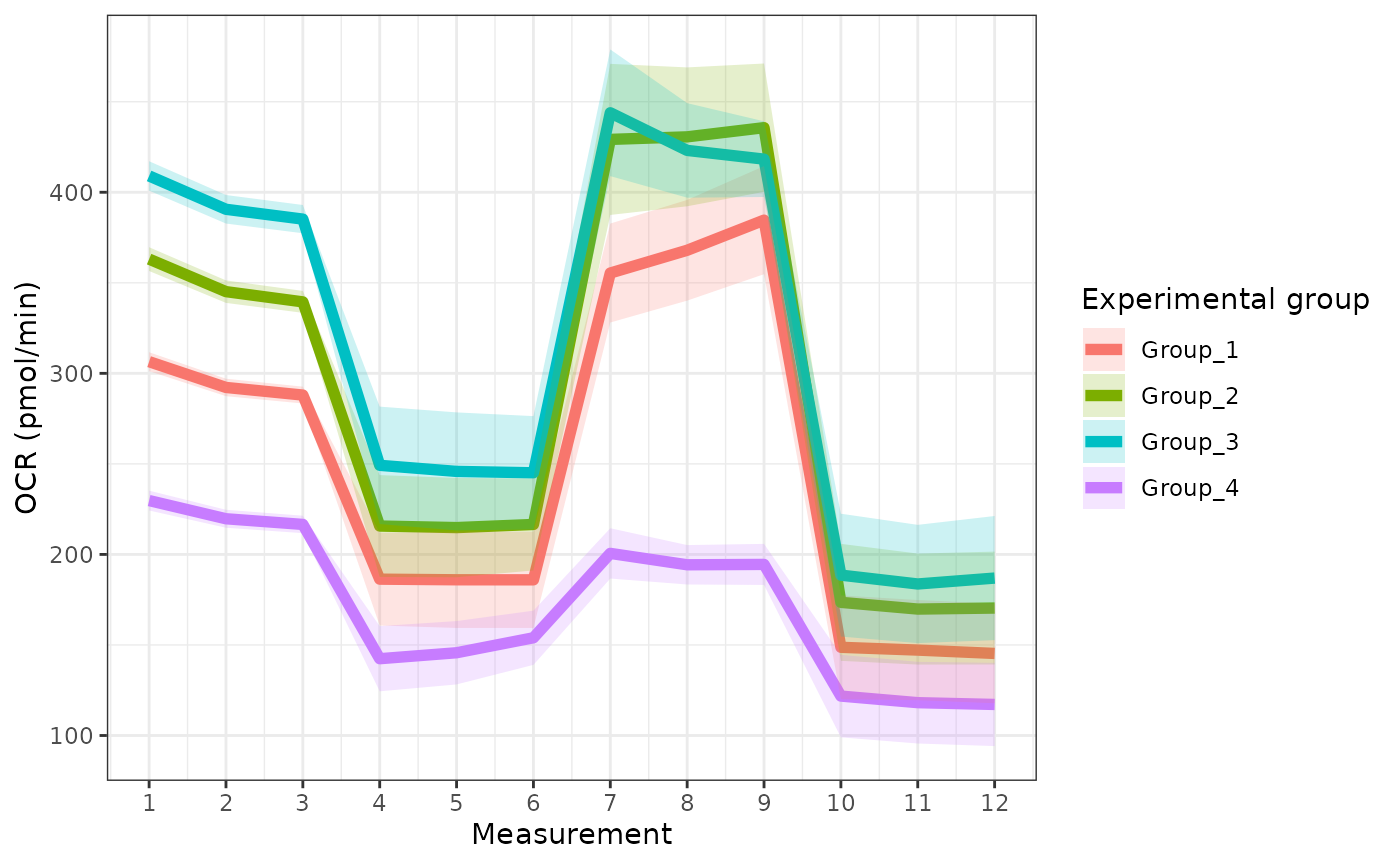
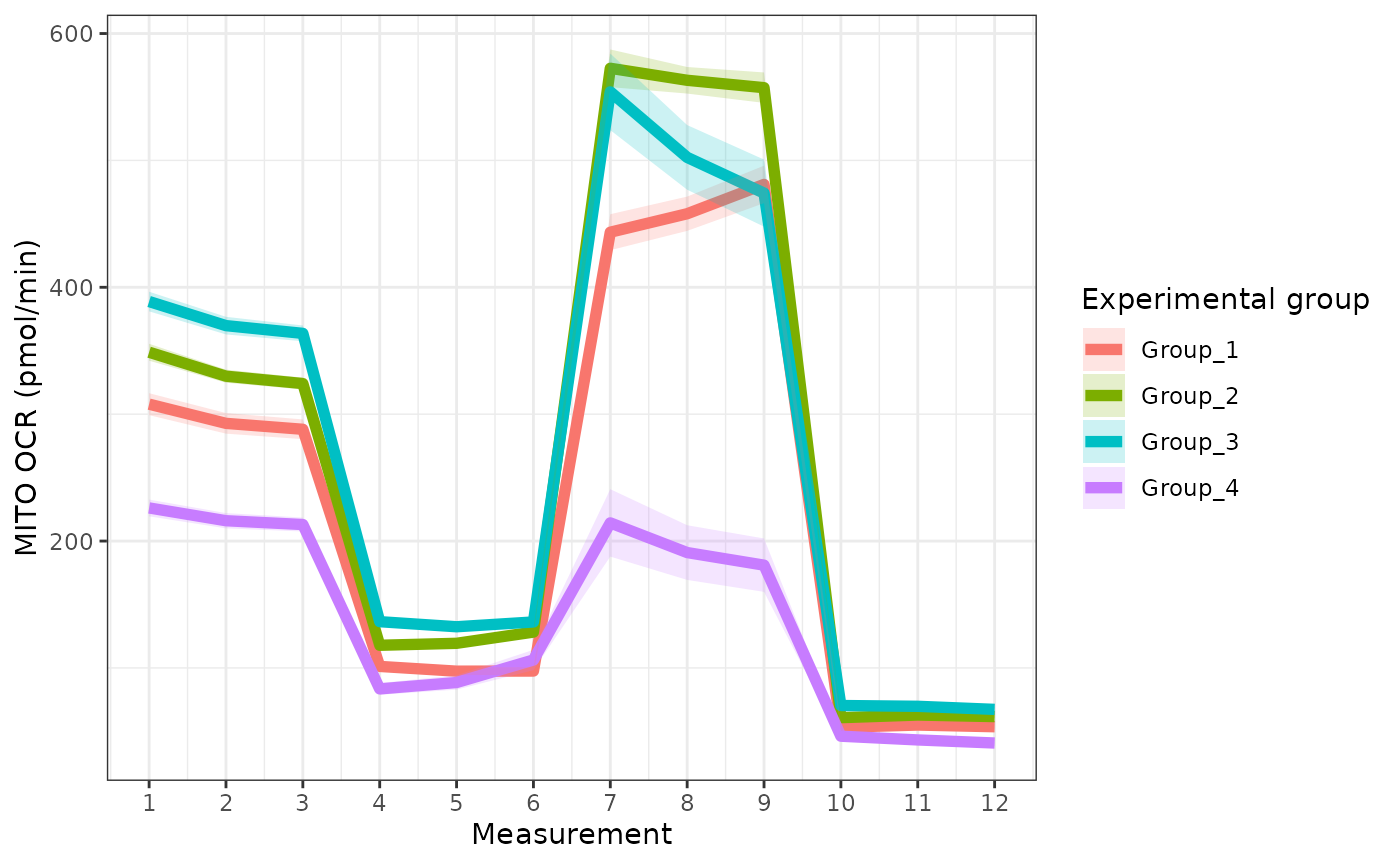
Deploying to gh-pages from @ jamespeapen/ceas@bffedb1c9b76316ab31076875fa677538ccf0490 🚀

diff --git a/dev/articles/ceas.html b/dev/articles/ceas.html
@@ -35,7 +35,7 @@
     
     <a class="navbar-brand me-2" href="../index.html">ceas</a>
 
-    <small class="nav-text text-danger me-auto" data-bs-toggle="tooltip" data-bs-placement="bottom" title="In-development version">0.3.0.9000</small>
+    <small class="nav-text text-danger me-auto" data-bs-toggle="tooltip" data-bs-placement="bottom" title="In-development version">0.3.2.9000</small>
 
     
     <button class="navbar-toggler" type="button" data-bs-toggle="collapse" data-bs-target="#navbar" aria-controls="navbar" aria-expanded="false" aria-label="Toggle navigation">
@@ -560,7 +560,7 @@ own custom plotting functions on those datasets.</p>
 <div class="sourceCode" id="cb21"><pre class="downlit sourceCode r">
 <code class="sourceCode R"><span><span class="va">rate_plot</span></span></code></pre></div>
 <div class="sourceCode" id="cb22"><pre class="downlit sourceCode r">
-<code class="sourceCode R"><span><span class="kw">function</span> <span class="op">(</span><span class="va">seahorse_rates</span>, <span class="va">measure</span> <span class="op">=</span> <span class="st">"OCR"</span>, <span class="va">error_bar</span> <span class="op">=</span> <span class="st">"ci"</span>, </span>
+<code class="sourceCode R"><span><span class="kw">function</span> <span class="op">(</span><span class="va">seahorse_rates</span>, <span class="va">measure</span> <span class="op">=</span> <span class="st">"OCR"</span>, <span class="va">assay</span> <span class="op">=</span> <span class="st">"MITO"</span>, <span class="va">error_bar</span> <span class="op">=</span> <span class="st">"ci"</span>, </span>
 <span>    <span class="va">conf_int</span> <span class="op">=</span> <span class="fl">0.95</span>, <span class="va">group_label</span> <span class="op">=</span> <span class="st">"Experimental group"</span><span class="op">)</span> </span>
 <span><span class="op">{</span></span>
 <span>    <span class="fu"><a href="https://rdrr.io/r/base/stopifnot.html" class="external-link">stopifnot</a></span><span class="op">(</span>`'measure' should be 'OCR' or 'ECAR'` <span class="op">=</span> <span class="va">measure</span> <span class="op"><a href="https://rdrr.io/r/base/match.html" class="external-link">%in%</a></span> </span>
@@ -579,9 +579,10 @@ own custom plotting functions on those datasets.</p>
 <span>    <span class="va">exp_group</span> <span class="op">&lt;-</span> <span class="cn">NULL</span></span>
 <span>    <span class="va">lower_bound</span> <span class="op">&lt;-</span> <span class="cn">NULL</span></span>
 <span>    <span class="va">upper_bound</span> <span class="op">&lt;-</span> <span class="cn">NULL</span></span>
-<span>    <span class="va">plot_data</span> <span class="op">&lt;-</span> <span class="fu"><a href="../reference/get_rate_summary.html">get_rate_summary</a></span><span class="op">(</span><span class="va">seahorse_rates</span>, <span class="va">measure</span>, <span class="va">error_bar</span>, </span>
-<span>        <span class="va">conf_int</span><span class="op">)</span></span>
-<span>    <span class="va">y_labels</span> <span class="op">&lt;-</span> <span class="fu"><a href="https://rdrr.io/r/base/list.html" class="external-link">list</a></span><span class="op">(</span>OCR <span class="op">=</span> <span class="st">"OCR (pmol/min)"</span>, ECAR <span class="op">=</span> <span class="st">"ECAR (mpH/min)"</span><span class="op">)</span></span>
+<span>    <span class="va">plot_data</span> <span class="op">&lt;-</span> <span class="fu"><a href="../reference/get_rate_summary.html">get_rate_summary</a></span><span class="op">(</span><span class="va">seahorse_rates</span>, <span class="va">measure</span>, <span class="va">assay</span>, </span>
+<span>        <span class="va">error_bar</span>, <span class="va">conf_int</span><span class="op">)</span></span>
+<span>    <span class="va">y_labels</span> <span class="op">&lt;-</span> <span class="fu"><a href="https://rdrr.io/r/base/list.html" class="external-link">list</a></span><span class="op">(</span>OCR <span class="op">=</span> <span class="fu"><a href="https://rdrr.io/r/base/paste.html" class="external-link">paste0</a></span><span class="op">(</span><span class="va">assay</span>, <span class="st">" OCR (pmol/min)"</span><span class="op">)</span>, </span>
+<span>        ECAR <span class="op">=</span> <span class="fu"><a href="https://rdrr.io/r/base/paste.html" class="external-link">paste0</a></span><span class="op">(</span><span class="va">assay</span>, <span class="st">" ECAR (mpH/min)"</span><span class="op">)</span><span class="op">)</span></span>
 <span>    <span class="fu">ggplot</span><span class="op">(</span><span class="va">plot_data</span>, <span class="fu">aes</span><span class="op">(</span>x <span class="op">=</span> <span class="va">Measurement</span>, y <span class="op">=</span> <span class="va">mean</span>, color <span class="op">=</span> <span class="va">exp_group</span>, </span>
 <span>        group <span class="op">=</span> <span class="va">exp_group</span>, fill <span class="op">=</span> <span class="va">exp_group</span><span class="op">)</span><span class="op">)</span> <span class="op">+</span> <span class="fu">geom_line</span><span class="op">(</span>size <span class="op">=</span> <span class="fl">2</span><span class="op">)</span> <span class="op">+</span> </span>
 <span>        <span class="fu">geom_ribbon</span><span class="op">(</span><span class="fu">aes</span><span class="op">(</span>ymin <span class="op">=</span> <span class="va">lower_bound</span>, ymax <span class="op">=</span> <span class="va">upper_bound</span><span class="op">)</span>, </span>

diff --git a/dev/reference/read_data.html b/dev/reference/read_data.html
@@ -12,7 +12,7 @@ data is background normalized."><meta property="og:image" content="https://james
     
     <a class="navbar-brand me-2" href="../index.html">ceas</a>
 
-    <small class="nav-text text-danger me-auto" data-bs-toggle="tooltip" data-bs-placement="bottom" title="In-development version">0.3.0.9000</small>
+    <small class="nav-text text-danger me-auto" data-bs-toggle="tooltip" data-bs-placement="bottom" title="In-development version">0.3.2.9000</small>
 
     
     <button class="navbar-toggler" type="button" data-bs-toggle="collapse" data-bs-target="#navbar" aria-controls="navbar" aria-expanded="false" aria-label="Toggle navigation">
@@ -134,31 +134,9 @@ character as delimiter.</p></dd>
 <span class="r-in"><span><span class="va">norm_csv</span> <span class="op">&lt;-</span> <span class="fu"><a href="https://rdrr.io/r/base/system.file.html" class="external-link">system.file</a></span><span class="op">(</span><span class="st">"extdata"</span>, package <span class="op">=</span> <span class="st">"ceas"</span><span class="op">)</span> <span class="op">|&gt;</span></span></span>
 <span class="r-in"><span>  <span class="fu"><a href="https://rdrr.io/r/base/list.files.html" class="external-link">list.files</a></span><span class="op">(</span>pattern <span class="op">=</span> <span class="st">"norm.csv"</span>, full.names <span class="op">=</span> <span class="cn">TRUE</span><span class="op">)</span></span></span>
 <span class="r-in"><span><span class="va">seahorse_rates.norm</span> <span class="op">&lt;-</span> <span class="fu">read_data</span><span class="op">(</span><span class="va">rep_list</span>, norm <span class="op">=</span> <span class="va">norm_csv</span>, sheet <span class="op">=</span> <span class="fl">2</span><span class="op">)</span></span></span>
+<span class="r-err co"><span class="r-pr">#&gt;</span> <span class="error">Error in if (!all(background_dt[, .(OCR, ECAR, PER)] == 0)) {    print(rates_dt[exp_group == "Background"][OCR != 0 | ECAR !=         0 | PER != 0])    stop("Background is not 0 in the rows shown above - check that normalization was performed")}:</span> missing value where TRUE/FALSE needed</span>
 <span class="r-in"><span><span class="fu"><a href="https://rdrr.io/r/utils/head.html" class="external-link">head</a></span><span class="op">(</span><span class="va">seahorse_rates.norm</span>, n <span class="op">=</span> <span class="fl">10</span><span class="op">)</span></span></span>
-<span class="r-out co"><span class="r-pr">#&gt;</span>     Measurement   Well     Time       OCR      ECAR      PER  exp_group</span>
-<span class="r-out co"><span class="r-pr">#&gt;</span>           &lt;num&gt; &lt;char&gt;    &lt;num&gt;     &lt;num&gt;     &lt;num&gt;    &lt;num&gt;     &lt;char&gt;</span>
-<span class="r-out co"><span class="r-pr">#&gt;</span>  1:           1    A01 1.304765        NA        NA   0.0000 Background</span>
-<span class="r-out co"><span class="r-pr">#&gt;</span>  2:           1    A02 1.304765  50.87376  5.107549 334.4771    Group_1</span>
-<span class="r-out co"><span class="r-pr">#&gt;</span>  3:           1    A03 1.304765  51.33103  5.546114 358.4754    Group_1</span>
-<span class="r-out co"><span class="r-pr">#&gt;</span>  4:           1    A04 1.304765  56.55665  8.196252 503.4910    Group_2</span>
-<span class="r-out co"><span class="r-pr">#&gt;</span>  5:           1    A05 1.304765  53.65663  7.991003 492.2597    Group_2</span>
-<span class="r-out co"><span class="r-pr">#&gt;</span>  6:           1    A06 1.304765  53.96603  7.807053 482.1940    Group_2</span>
-<span class="r-out co"><span class="r-pr">#&gt;</span>  7:           1    A07 1.304765 379.14553 46.817412 481.9668    Group_3</span>
-<span class="r-out co"><span class="r-pr">#&gt;</span>  8:           1    A08 1.304765 391.14776 50.146484 512.3280    Group_3</span>
-<span class="r-out co"><span class="r-pr">#&gt;</span>  9:           1    A09 1.304765 393.45230 52.546486 534.2160    Group_3</span>
-<span class="r-out co"><span class="r-pr">#&gt;</span> 10:           1    A10 1.304765 217.05432 29.117934 320.5476    Group_4</span>
-<span class="r-out co"><span class="r-pr">#&gt;</span>     assay_type replicate</span>
-<span class="r-out co"><span class="r-pr">#&gt;</span>         &lt;char&gt;     &lt;int&gt;</span>
-<span class="r-out co"><span class="r-pr">#&gt;</span>  1:       &lt;NA&gt;         1</span>
-<span class="r-out co"><span class="r-pr">#&gt;</span>  2:       MITO         1</span>
-<span class="r-out co"><span class="r-pr">#&gt;</span>  3:       MITO         1</span>
-<span class="r-out co"><span class="r-pr">#&gt;</span>  4:       MITO         1</span>
-<span class="r-out co"><span class="r-pr">#&gt;</span>  5:       MITO         1</span>
-<span class="r-out co"><span class="r-pr">#&gt;</span>  6:       MITO         1</span>
-<span class="r-out co"><span class="r-pr">#&gt;</span>  7:       MITO         1</span>
-<span class="r-out co"><span class="r-pr">#&gt;</span>  8:       MITO         1</span>
-<span class="r-out co"><span class="r-pr">#&gt;</span>  9:       MITO         1</span>
-<span class="r-out co"><span class="r-pr">#&gt;</span> 10:       MITO         1</span>
+<span class="r-err co"><span class="r-pr">#&gt;</span> <span class="error">Error in eval(expr, envir, enclos):</span> object 'seahorse_rates.norm' not found</span>
 </code></pre></div>
     </div>
   </main><aside class="col-md-3"><nav id="toc"><h2>On this page</h2>

diff --git a/dev/reference/get_rate_summary.html b/dev/reference/get_rate_summary.html
@@ -10,7 +10,7 @@
     
     <a class="navbar-brand me-2" href="../index.html">ceas</a>
 
-    <small class="nav-text text-danger me-auto" data-bs-toggle="tooltip" data-bs-placement="bottom" title="In-development version">0.3.0.9000</small>
+    <small class="nav-text text-danger me-auto" data-bs-toggle="tooltip" data-bs-placement="bottom" title="In-development version">0.3.2.9000</small>
 
     
     <button class="navbar-toggler" type="button" data-bs-toggle="collapse" data-bs-target="#navbar" aria-controls="navbar" aria-expanded="false" aria-label="Toggle navigation">
@@ -63,6 +63,7 @@
     <div class="sourceCode"><pre class="sourceCode r"><code><span><span class="fu">get_rate_summary</span><span class="op">(</span></span>
 <span>  <span class="va">seahorse_rates</span>,</span>
 <span>  measure <span class="op">=</span> <span class="st">"OCR"</span>,</span>
+<span>  <span class="va">assay</span>,</span>
 <span>  error_metric <span class="op">=</span> <span class="st">"ci"</span>,</span>
 <span>  conf_int <span class="op">=</span> <span class="fl">0.95</span></span>
 <span><span class="op">)</span></span></code></pre></div>
@@ -75,7 +76,11 @@
 
 
 <dt>measure</dt>
-<dd><p>Whether to plot <code>"OCR"</code> or <code>"ECAR"</code></p></dd>
+<dd><p>Whether to calculate summary for <code>"OCR"</code> or <code>"ECAR"</code></p></dd>
+
+
+<dt>assay</dt>
+<dd><p>What assay to calculate summary for (e.g. "MITO" or "GLYCO")</p></dd>
 
 
 <dt>error_metric</dt>
@@ -104,19 +109,9 @@
 <span class="r-in"><span>  error_metric <span class="op">=</span> <span class="st">"ci"</span>,</span></span>
 <span class="r-in"><span>  conf_int <span class="op">=</span> <span class="fl">0.95</span></span></span>
 <span class="r-in"><span><span class="op">)</span></span></span>
+<span class="r-err co"><span class="r-pr">#&gt;</span> <span class="error">Error in eval(stub[[3L]], x, enclos):</span> argument "assay" is missing, with no default</span>
 <span class="r-in"><span><span class="fu"><a href="https://rdrr.io/r/utils/head.html" class="external-link">head</a></span><span class="op">(</span><span class="va">rates</span>, n <span class="op">=</span> <span class="fl">10</span><span class="op">)</span></span></span>
-<span class="r-out co"><span class="r-pr">#&gt;</span>     exp_group Measurement     mean       sd       se lower_bound upper_bound</span>
-<span class="r-out co"><span class="r-pr">#&gt;</span>        &lt;char&gt;       &lt;num&gt;    &lt;num&gt;    &lt;num&gt;    &lt;num&gt;       &lt;num&gt;       &lt;num&gt;</span>
-<span class="r-out co"><span class="r-pr">#&gt;</span>  1:   Group_1           1 306.4486 17.65435 2.661494    301.2322    311.6650</span>
-<span class="r-out co"><span class="r-pr">#&gt;</span>  2:   Group_2           1 363.0852 23.20204 3.348926    356.5215    369.6490</span>
-<span class="r-out co"><span class="r-pr">#&gt;</span>  3:   Group_3           1 409.0223 28.67433 4.138782    400.9104    417.1342</span>
-<span class="r-out co"><span class="r-pr">#&gt;</span>  4:   Group_4           1 229.7457 18.53215 2.793827    224.2699    235.2215</span>
-<span class="r-out co"><span class="r-pr">#&gt;</span>  5:   Group_1           2 292.2111 16.33149 2.462065    287.3855    297.0366</span>
-<span class="r-out co"><span class="r-pr">#&gt;</span>  6:   Group_2           2 345.1178 21.95538 3.168987    338.9067    351.3289</span>
-<span class="r-out co"><span class="r-pr">#&gt;</span>  7:   Group_3           2 390.6030 27.84976 4.019766    382.7244    398.4816</span>
-<span class="r-out co"><span class="r-pr">#&gt;</span>  8:   Group_4           2 219.6930 16.79214 2.531511    214.7313    224.6547</span>
-<span class="r-out co"><span class="r-pr">#&gt;</span>  9:   Group_1           3 288.0009 15.74350 2.373422    283.3491    292.6527</span>
-<span class="r-out co"><span class="r-pr">#&gt;</span> 10:   Group_2           3 339.4649 21.40811 3.089995    333.4086    345.5212</span>
+<span class="r-err co"><span class="r-pr">#&gt;</span> <span class="error">Error in eval(expr, envir, enclos):</span> object 'rates' not found</span>
 </code></pre></div>
     </div>
   </main><aside class="col-md-3"><nav id="toc"><h2>On this page</h2>

diff --git a/dev/news/index.html b/dev/news/index.html
@@ -10,7 +10,7 @@
     
     <a class="navbar-brand me-2" href="../index.html">ceas</a>
 
-    <small class="nav-text text-danger me-auto" data-bs-toggle="tooltip" data-bs-placement="bottom" title="In-development version">0.3.0.9000</small>
+    <small class="nav-text text-danger me-auto" data-bs-toggle="tooltip" data-bs-placement="bottom" title="In-development version">0.3.2.9000</small>
 
     
     <button class="navbar-toggler" type="button" data-bs-toggle="collapse" data-bs-target="#navbar" aria-controls="navbar" aria-expanded="false" aria-label="Toggle navigation">
@@ -57,7 +57,15 @@
 <h2 class="pkg-version" data-toc-text="development version" id="ceas-development-version">ceas (development version)<a class="anchor" aria-label="anchor" href="#ceas-development-version"></a></h2>
 </div>
     <div class="section level2">
+<h2 class="pkg-version" data-toc-text="0.3.2" id="ceas-032">ceas 0.3.2<a class="anchor" aria-label="anchor" href="#ceas-032"></a></h2>
+<ul><li>Stop if data are not normalized by checking that the “Background” group’s OCR, ECAR, and PER values are 0.</li>
+</ul></div>
+    <div class="section level2">
 <h2 class="pkg-version" data-toc-text="0.3.1" id="ceas-031">ceas 0.3.1<a class="anchor" aria-label="anchor" href="#ceas-031"></a></h2>
+<ul><li>Add assay type as argument to plot ECAR/OCR meaningfully as all assay types were previously being summarized instead of just one.</li>
+</ul></div>
+    <div class="section level2">
+<h2 class="pkg-version" data-toc-text="0.3.0" id="ceas-030">ceas 0.3.0<a class="anchor" aria-label="anchor" href="#ceas-030"></a></h2>
 <ul><li>
 <p>Add <code><a href="../reference/normalize.html">normalize()</a></code>, a cell count/protein mass normalization function. <code>read_data</code> now can take a csv file with cell counts or protein mass (<span class="math inline"><em>μ</em></span>g) for each of the experimental groups to normalize the data. An example csv is provided below for a dataset with 4 experimental groups:</p>
 <table class="table"><thead><tr class="header"><th align="left">exp_group</th>
@@ -73,7 +81,7 @@
 </tr></tbody></table></li>
 </ul></div>
     <div class="section level2">
-<h2 class="pkg-version" data-toc-text="0.2.1" id="ceas-021">ceas 0.2.1<a class="anchor" aria-label="anchor" href="#ceas-021"></a></h2>
+<h2 class="pkg-version" data-toc-text="0.2.0" id="ceas-020">ceas 0.2.0<a class="anchor" aria-label="anchor" href="#ceas-020"></a></h2>
 <ul><li>Add delimiter between group and assay labels as argument in <code><a href="../reference/read_data.html">read_data()</a></code> to support delimiters other than <space>.</space></li>
 </ul></div>
     <div class="section level2">

diff --git a/dev/reference/rate_plot.html b/dev/reference/rate_plot.html
@@ -10,7 +10,7 @@
     
     <a class="navbar-brand me-2" href="../index.html">ceas</a>
 
-    <small class="nav-text text-danger me-auto" data-bs-toggle="tooltip" data-bs-placement="bottom" title="In-development version">0.3.0.9000</small>
+    <small class="nav-text text-danger me-auto" data-bs-toggle="tooltip" data-bs-placement="bottom" title="In-development version">0.3.2.9000</small>
 
     
     <button class="navbar-toggler" type="button" data-bs-toggle="collapse" data-bs-target="#navbar" aria-controls="navbar" aria-expanded="false" aria-label="Toggle navigation">
@@ -63,6 +63,7 @@
     <div class="sourceCode"><pre class="sourceCode r"><code><span><span class="fu">rate_plot</span><span class="op">(</span></span>
 <span>  <span class="va">seahorse_rates</span>,</span>
 <span>  measure <span class="op">=</span> <span class="st">"OCR"</span>,</span>
+<span>  assay <span class="op">=</span> <span class="st">"MITO"</span>,</span>
 <span>  error_bar <span class="op">=</span> <span class="st">"ci"</span>,</span>
 <span>  conf_int <span class="op">=</span> <span class="fl">0.95</span>,</span>
 <span>  group_label <span class="op">=</span> <span class="st">"Experimental group"</span></span>
@@ -77,6 +78,10 @@
 
 <dt>measure</dt>
 <dd><p>Whether to plot <code>"OCR"</code> or <code>"ECAR"</code></p></dd>
+
+
+<dt>assay</dt>
+<dd><p>What assay to plot (e.g. "MITO" or "GLYCO")</p></dd>
 
 
 <dt>error_bar</dt>

diff --git a/dev/authors.html b/dev/authors.html
@@ -10,7 +10,7 @@
     
     <a class="navbar-brand me-2" href="index.html">ceas</a>
 
-    <small class="nav-text text-danger me-auto" data-bs-toggle="tooltip" data-bs-placement="bottom" title="In-development version">0.3.0.9000</small>
+    <small class="nav-text text-danger me-auto" data-bs-toggle="tooltip" data-bs-placement="bottom" title="In-development version">0.3.2.9000</small>
 
     
     <button class="navbar-toggler" type="button" data-bs-toggle="collapse" data-bs-target="#navbar" aria-controls="navbar" aria-expanded="false" aria-label="Toggle navigation">
@@ -83,13 +83,13 @@
 
       <p>House R, Eapen J (2024).
 <em>ceas: Cellular Energetics Analysis Software</em>.
-R package version 0.3.0.9000, https://github.com/jamespeapen/ceas/, <a href="https://jamespeapen.github.io/ceas/">https://jamespeapen.github.io/ceas/</a>. 
+R package version 0.3.2.9000, https://github.com/jamespeapen/ceas/, <a href="https://jamespeapen.github.io/ceas/">https://jamespeapen.github.io/ceas/</a>. 
 </p>
       <pre>@Manual{,
   title = {ceas: Cellular Energetics Analysis Software},
   author = {Rachel House and James Eapen},
   year = {2024},
-  note = {R package version 0.3.0.9000, https://github.com/jamespeapen/ceas/},
+  note = {R package version 0.3.2.9000, https://github.com/jamespeapen/ceas/},
   url = {https://jamespeapen.github.io/ceas/},
 }</pre>
     </div>

diff --git a/dev/reference/get_energetics_summary.html b/dev/reference/get_energetics_summary.html
@@ -14,7 +14,7 @@ using the get_energetics function"><meta property="og:image" content="https://ja
     
     <a class="navbar-brand me-2" href="../index.html">ceas</a>
 
-    <small class="nav-text text-danger me-auto" data-bs-toggle="tooltip" data-bs-placement="bottom" title="In-development version">0.3.0.9000</small>
+    <small class="nav-text text-danger me-auto" data-bs-toggle="tooltip" data-bs-placement="bottom" title="In-development version">0.3.2.9000</small>
 
     
     <button class="navbar-toggler" type="button" data-bs-toggle="collapse" data-bs-target="#navbar" aria-controls="navbar" aria-expanded="false" aria-label="Toggle navigation">

diff --git a/dev/reference/make_bioscope_plot.html b/dev/reference/make_bioscope_plot.html
@@ -16,7 +16,7 @@ export, long-form rates excel files"><meta property="og:image" content="https://
     
     <a class="navbar-brand me-2" href="../index.html">ceas</a>
 
-    <small class="nav-text text-danger me-auto" data-bs-toggle="tooltip" data-bs-placement="bottom" title="In-development version">0.3.0.9000</small>
+    <small class="nav-text text-danger me-auto" data-bs-toggle="tooltip" data-bs-placement="bottom" title="In-development version">0.3.2.9000</small>
 
     
     <button class="navbar-toggler" type="button" data-bs-toggle="collapse" data-bs-target="#navbar" aria-controls="navbar" aria-expanded="false" aria-label="Toggle navigation">

diff --git a/dev/reference/normalize.html b/dev/reference/normalize.html
@@ -12,7 +12,7 @@ assumes your data is background normalized."><meta property="og:image" content="
     
     <a class="navbar-brand me-2" href="../index.html">ceas</a>
 
-    <small class="nav-text text-danger me-auto" data-bs-toggle="tooltip" data-bs-placement="bottom" title="In-development version">0.3.0.9000</small>
+    <small class="nav-text text-danger me-auto" data-bs-toggle="tooltip" data-bs-placement="bottom" title="In-development version">0.3.2.9000</small>
 
     
     <button class="navbar-toggler" type="button" data-bs-toggle="collapse" data-bs-target="#navbar" aria-controls="navbar" aria-expanded="false" aria-label="Toggle navigation">

diff --git a/dev/reference/partition_data.html b/dev/reference/partition_data.html
@@ -16,7 +16,7 @@ per cycle to X measurements)"><meta property="og:image" content="https://jamespe
     
     <a class="navbar-brand me-2" href="../index.html">ceas</a>
 
-    <small class="nav-text text-danger me-auto" data-bs-toggle="tooltip" data-bs-placement="bottom" title="In-development version">0.3.0.9000</small>
+    <small class="nav-text text-danger me-auto" data-bs-toggle="tooltip" data-bs-placement="bottom" title="In-development version">0.3.2.9000</small>
 
     
     <button class="navbar-toggler" type="button" data-bs-toggle="collapse" data-bs-target="#navbar" aria-controls="navbar" aria-expanded="false" aria-label="Toggle navigation">

diff --git a/dev/articles/atp_calculation.html b/dev/articles/atp_calculation.html
@@ -35,7 +35,7 @@
     
     <a class="navbar-brand me-2" href="../index.html">ceas</a>
 
-    <small class="nav-text text-danger me-auto" data-bs-toggle="tooltip" data-bs-placement="bottom" title="In-development version">0.3.0.9000</small>
+    <small class="nav-text text-danger me-auto" data-bs-toggle="tooltip" data-bs-placement="bottom" title="In-development version">0.3.2.9000</small>
 
     
     <button class="navbar-toggler" type="button" data-bs-toggle="collapse" data-bs-target="#navbar" aria-controls="navbar" aria-expanded="false" aria-label="Toggle navigation">

diff --git a/dev/articles/index.html b/dev/articles/index.html
@@ -10,7 +10,7 @@
     
     <a class="navbar-brand me-2" href="../index.html">ceas</a>
 
-    <small class="nav-text text-danger me-auto" data-bs-toggle="tooltip" data-bs-placement="bottom" title="In-development version">0.3.0.9000</small>
+    <small class="nav-text text-danger me-auto" data-bs-toggle="tooltip" data-bs-placement="bottom" title="In-development version">0.3.2.9000</small>
 
     
     <button class="navbar-toggler" type="button" data-bs-toggle="collapse" data-bs-target="#navbar" aria-controls="navbar" aria-expanded="false" aria-label="Toggle navigation">
